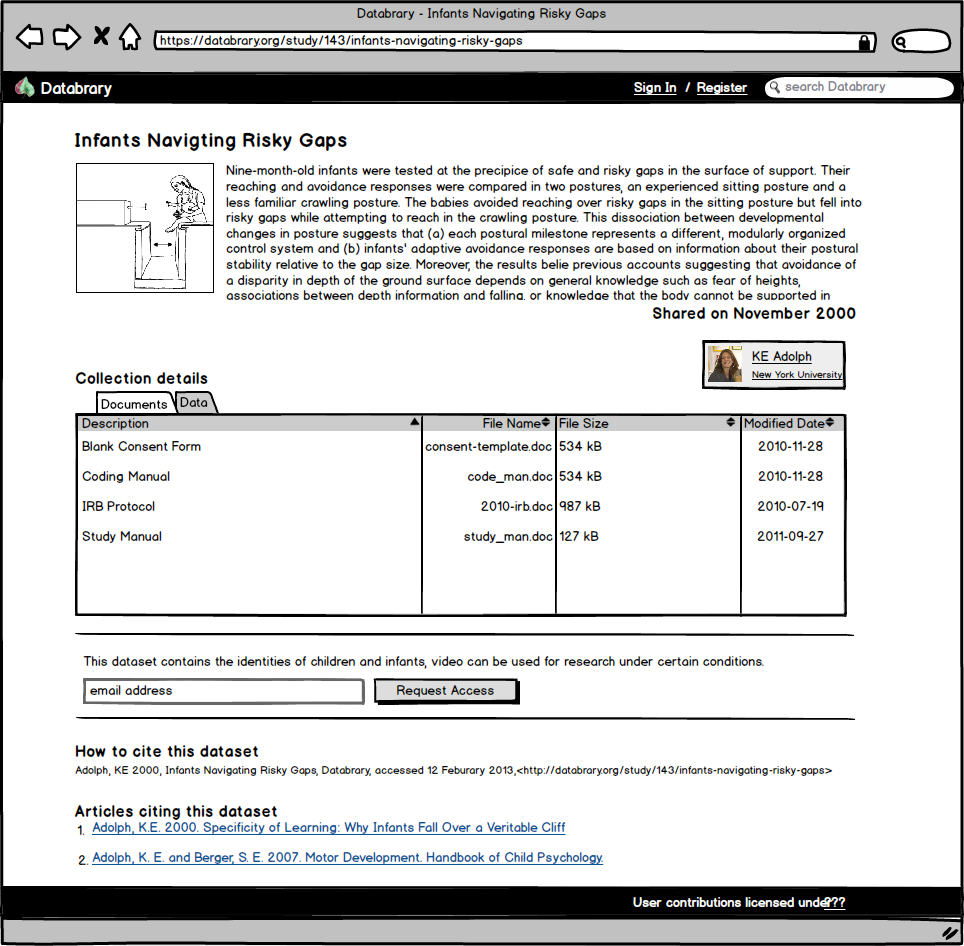
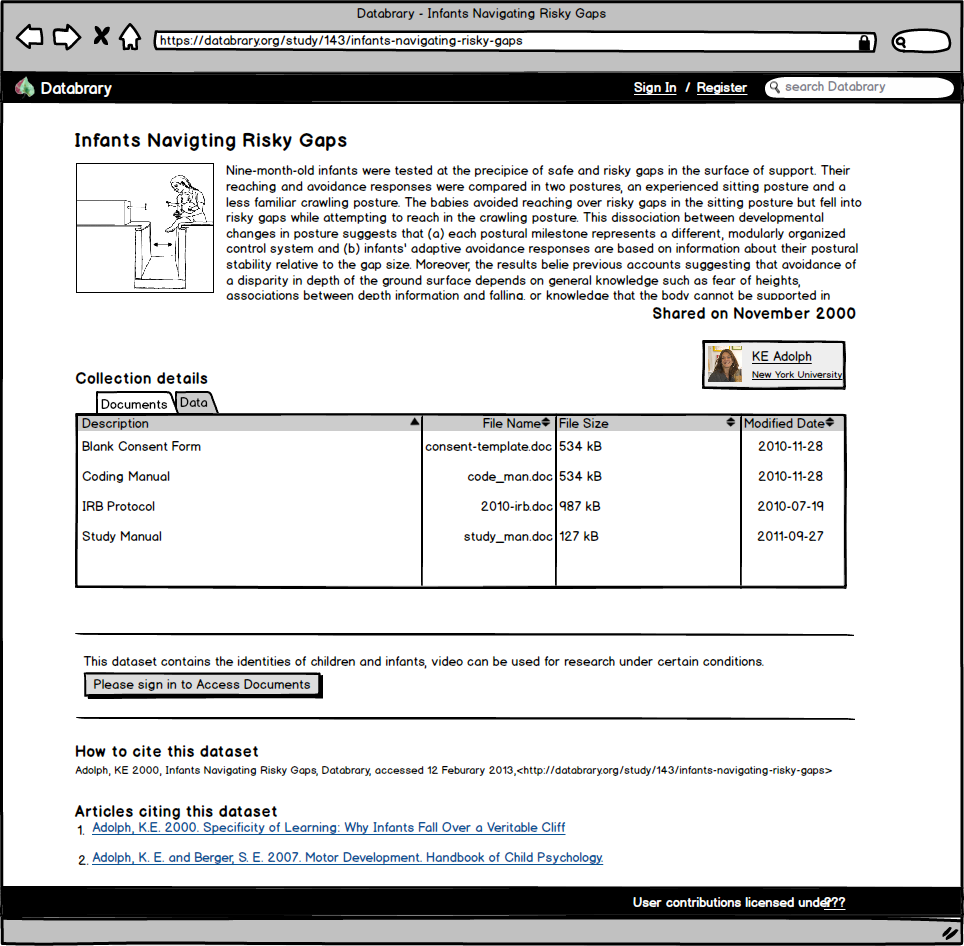
numerous updates

Changed region(s): [[0.0622, 0.6131, 0.9025, 0.6744], [0.0622, 0.7051, 0.5602, 0.7664]]

diff --git a/wireframe-presentation.md b/wireframe-presentation.md
@@ -4,32 +4,43 @@
 - [ ]:?: what to use for "User contributions licensed under ???"
 - [ ]:?: do we need a "logged-in" view of various pages? if so, which ones?
 - [ ]:?: what username to use for logged-in view?, e.g, Karen Adolph, Rick Gilmore 
+- [ ]:?: do we still need "study-public-request" wireframe/image?
 
 ### Discovery/Browsing
 
-CREATED : Databrary home page (add search box, full color)
-   [image](./home-page.png)
-
+CREATED : Databrary home page (add search box, full color)   
 - ala current databrary.org
 - search box
 - login/register link
+- [image](./home-page.png)
 
 
-UPDATED: Search results page
-   [image](./search-basic-results.png)
-   
+
+UPDATED: Search results page   
 - search for "walking" and/or "Adolph"
 - refine by: age/race/ethnicity of participant, excerpts available, number of participants (range)
 - example results: http://scholar.google.com/scholar?q=adolph+walking
 -- [ ]:ds: could you provide a list of sample data set names, or should I just use paper titles?
+- [image](./search-basic-results.png)
+   
 
 
-UPDATED: Study page
+UPDATED: Study page (Public View)
 
-- Documents tab: Study manual, IRB protocol, Blank consent form, Coding manual
-   [image](./study-public-view-documents.png)
-- Data tab: Table of participants: participant ID, age at test, # videos, # data files
-   [image](./study-public-view-data.png)
+- Documents tab: Study manual, IRB protocol, Blank consent form, Coding manual   
+- [image](./study-public-view-documents.png)
+- Data tab: Table of participants: participant ID, age at test, # videos, # data files   
+- [image](./study-public-view-data.png)
+
+
+UPDATED: Study page (Authorized View)
+
+- Documents tab: Study manual, IRB protocol, Blank consent form, Coding manual   
+  - [image](./study-authorized-view-documents.png)
+- Data tab: Table of participants: participant ID, age at test, # videos, # data files   
+  - [ ]:?: labels for participants?
+  - [image](./study-authorized-view-data.png)
+
 
 - comment/tagging template
   - [x]:?: sign-in to tag / comment: Yes.
@@ -39,6 +50,8 @@ UPDATED: Study page
 - [ ]:jgp: logged-in view: make filenames "links" for download, and also add "download all documents as zip file" link.
 
 CREATED : Login/Register page
+  - [sign-in image](./sign-in.png)
+  - [register image](./register.png)
 
 
 NEW : Study:Participant page
